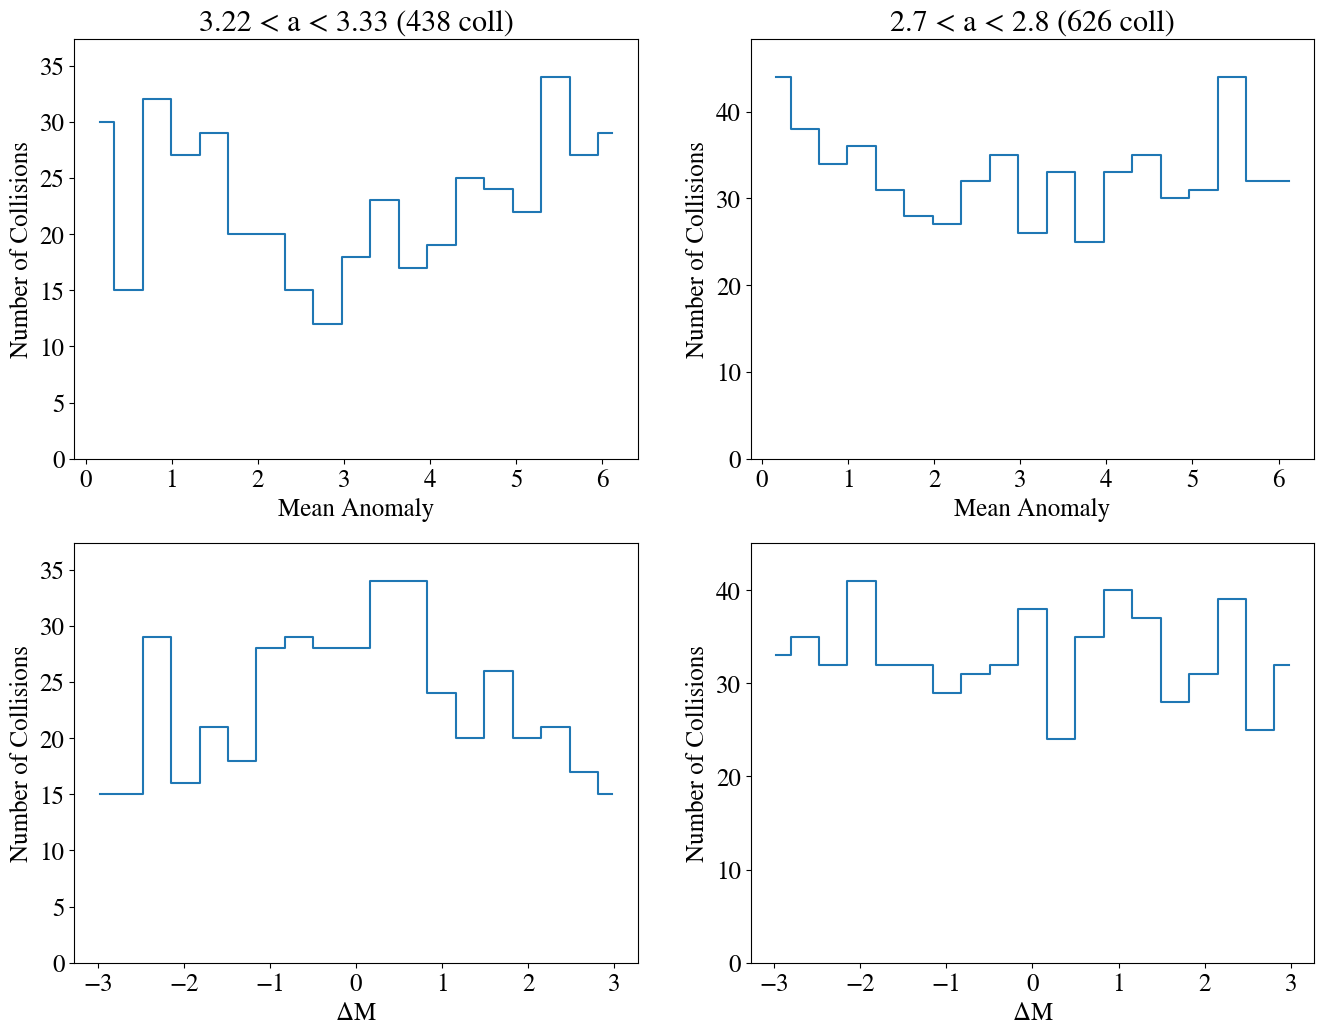
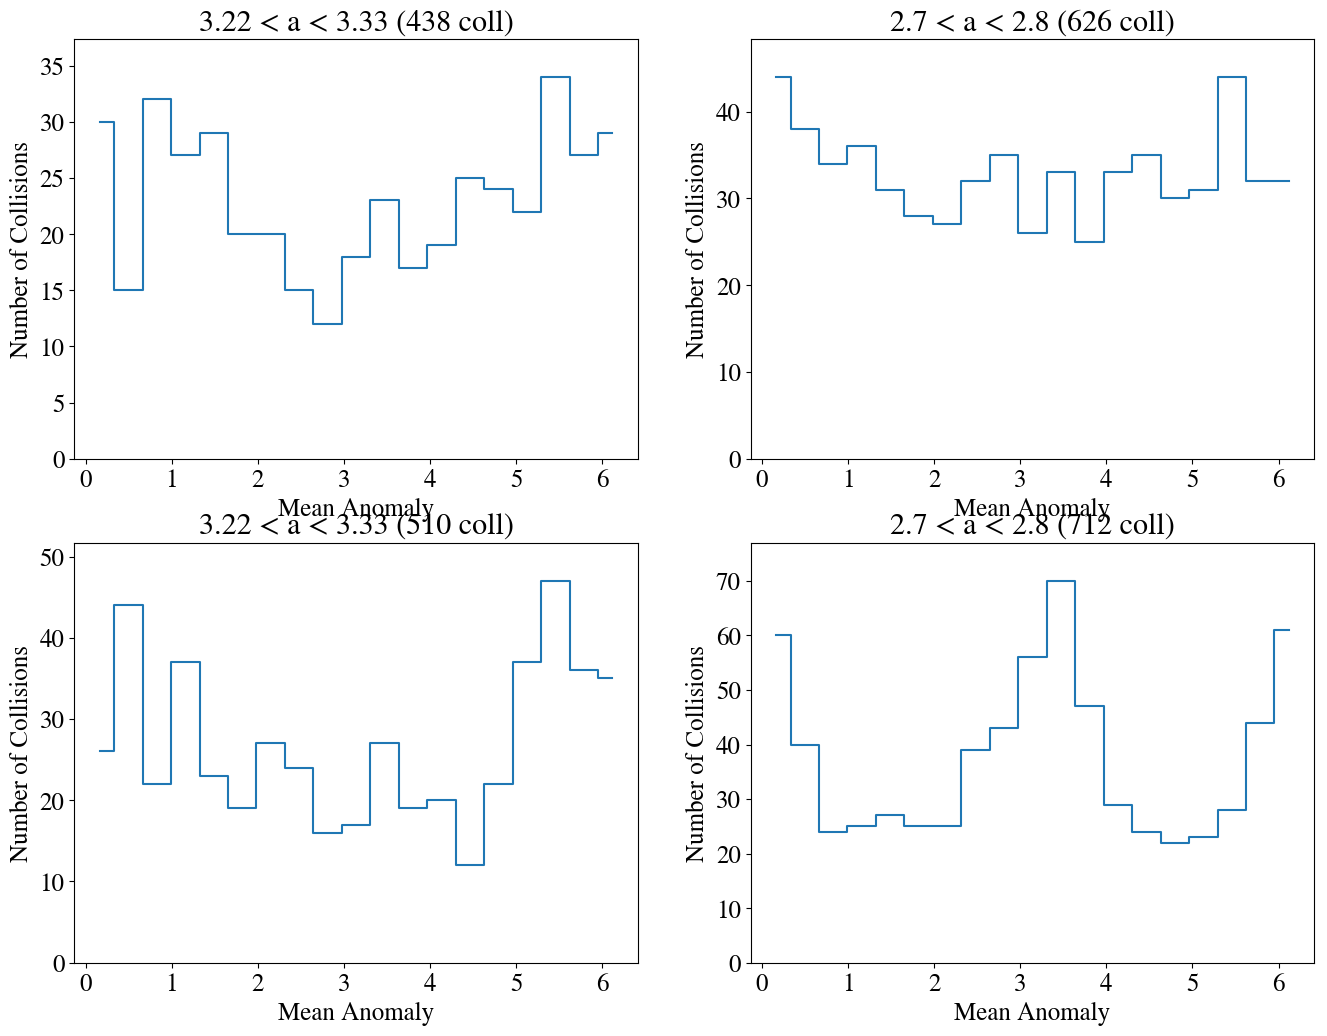
Update figure 6 and explanation

diff --git a/main.tex b/main.tex
@@ -156,9 +156,11 @@ Next, we move on to examine the statistics of the collisions that occur. Figure 
 
 Although the semimajor axis of a particle at the moment of collision provides useful information about how the mean motion resonances affect the collision rate in the disk, this information alone is not enough to predict where the second generation dust that is produced will end up. To do so, we will operate under the assumption that dust grains produced by collision events will quickly couple to the gas and attain a circular orbit. This assumption, which will be further justified in section \ref{sec:dust}, allows to map the radial variation in the dust surface density to the radial position of the collisions. This is shown in figure \ref{fig:coll_hist_r}, where the histograms indicate the x and y coordinates of a body at the moment that it undergoes a collision. Most notably, many of the prominent features visible in figure \ref{fig:coll_hist_a} no longer appear. This is due to the fact that the orbits of colliding bodies have a wide range of eccentricities. In the CJ simulation, there are prominent dips in the collision rate centered around the 2:1 and 3:1 MMR. Although still visible in the EJ simulation, these dips are much wider and shallower. This is due to the fact that particles near the edge of the region of influence of the MMRs have a higher eccentricity in the secularly forced disk. Because a larger eccentricity allows collisions to happen over a broader range of radial distances, the sharp, well-defined edges of the trough centered around the resonances becomes washed out.
 
-As is seen in figure \ref{fig:long_ph}, the relatively fast precession rates induced by the mean motion resonances overpower the secular forcing by Jupiter and randomize the orientation of orbits near the nominal resonance locations. Of course, this difference in longitude of perihelion of bodies inside and outside of resonance is only present in the EJ simulation because the Jupiter imposes zero forced eccentricity on the disk when it has a circular orbit. Figure \ref{fig:m_hist} provides another view of the difference in collision statistics inside and outside and of resonance. The top row shows the mean anomaly of bodies at the moment that they undergo a collision. The left side corresponds to collisions that occur inside of the 2:1 MMR and the right side corresponds to collisions that occur with a semimajor axis between 2.7 and 2.8 AU, which is meant to well away from the influence of any resonances. The semimajor axis window size in the right hand panel is chosen so that both histograms contain the same total number of collisions. The bottom row shows the difference in the mean anomaly between pairs of bodies at the moment that they collide.
+As is seen in figure \ref{fig:long_ph}, the relatively fast precession rates induced by the mean motion resonances overpower the secular forcing by Jupiter and randomize the orientation of orbits near the nominal resonance locations. Of course, this difference in longitude of perihelion of bodies inside and outside of resonance is only present in the EJ simulation because the Jupiter imposes zero forced eccentricity on the disk when it has a circular orbit. Figure \ref{fig:m_hist} provides another view of the difference in collision statistics inside and outside and of resonance. This shows the mean anomalies of bodies at the moment that they undergo a collision. The top row corresponds to the EJ simulation and the bottom rom corresponds to the CJ simulation. The left panels correspond to collisions that occur inside of the 2:1 MMR and the right panels are for collisions that occur with a semimajor axis between 2.7 and 2.8 AU, which is meant to well away from the influence of any resonances. The semimajor axis window size in the right hand panel is chosen so that both histograms contain the same total number of collisions.
 
-In this figure, the most notable difference between the collision statistics inside and outside of resonance is that collisions inside of resonance preferentially happen at perhielion. In addition, the two bodies that collide tend to be at a similar orbital phase. Outside of resonance, however, there are no significant trends in the mean anomaly at collision or in the mean anomaly difference. The difference in collision statistics between these two regions of the disk can be explained in the following way: for $\approx$ 100 km bodies, gravitational focusing plays a significant role in controlling the collision rate. In this regime, the collision rate is given by equation \ref{eq:safronov}, is larger for small relative velocities $v_{p}$ between planetesimals. At perihelion, relative velocities between planetesimals are largest (wait, this is backwards, why do collisions tend to happen at perihelion?). When the longitude of perhelia for adjacent orbits are aligned, which is true away from the resonances, bodies will always tend to have similar relative velocities, regardless of orbital phase. Therefore, the collision rate should no longer vary with mean anomaly, which is exactly what is shown in the top right panel of figure \ref{fig:m_hist}. (But shouldnt you see points clustered around deltaM = 0 in the bottom right panel then?)
+The qualitative differences between these four panels can be explained in the following way: for $\approx$ 100 km bodies, gravitational focusing plays a significant role in setting the collision rate. In regions of the disk where the rms eccentricity is small (which corresponds to a small velocity dispersion), the collision rate should be enhanced (see equation \ref{eq:safronov}). Inside of resonances, planetesimals undergo large amplitude libration which pumps up the eccentricity dispersion. This effect is visible in figure \ref{fig:ae} for both the EJ and CJ simulation. This implies that the collision rate should be geometric, and not depend on the velocity dispersion near resonances. When this is true, collisions should preferentially occur near perihelion. The reason for this is that in the geometric limit, the collision probability scales with the ratio between the geometric cross section of the two planetesimals and the surface area of a sphere with radius $r$, where $r$ is the distance between the bodies and the central star. This ratio, and therefore the collision probability, is largest when $r$ is minimized (see \citet{2003AJ....125.2692L}). The fact both of the left-hand panels in figure \ref{fig:m_hist} show a distinct lack of collisions near aphelion is consistent with this explanation.
+
+Note that this trend is not present in the right-hand panels of figure \ref{fig:m_hist}. In the case with Jupiter on a circular orbit (bottom right panel), there is a spike in the collision rate both at perihelion and aphelion. The perihelion spike is still due to the geometric argument presented in the previous paragraph. The aphelion spike is due to the effect of gravitational focusing. At aphelion, bodies achieve their minimum speed. This lowers the relative velocity between planetesimals, which according to equation \ref{eq:safronov} should enhance the collision rate. Note that the collision rate does not exhibit much dependence on mean anomaly outside of resonance in the case with Jupiter on an eccentric orbit (top right panel). This is due to the secular forcing by Jupiter, which aligns the longitude of perihelia of adjacent planetesimals. The result of this is that bodies maintain similar relative speeds over the course of an orbit, even though the orbit is eccentric. This lack of variation in the relative speeds makes collisions equally likely at any orbital phase.
 
 \subsection{Comparison With Analytic Safronov Collision Rate}\label{sec:saf}
 

diff --git a/makeFig.py b/makeFig.py
@@ -263,23 +263,23 @@ def make_m_hist():
 	ax[0,1].set_ylim(0, np.max(hist)*1.1)
 	ax[0,1].set_title(str(a21) + ' < a < ' + str(a22) + ' (' + str(len(M_c_e1[mask])) + ' coll)')
 
-	mask = np.logical_and(a_c_e1 > a11, a_c_e1 < a12)
-	hist, bins = np.histogram(ang_diff(M_c_e1[mask], M_c_e2[mask]), 
-	                          bins=np.linspace(-np.pi, np.pi, num=20))
+	mask = np.logical_and(a_c_c1 > a11, a_c_c1 < a12)
+	hist, bins = np.histogram(M_c_c1[mask], bins=np.linspace(0, 2*np.pi, num=20))
 	bins = 0.5*(bins[1:] + bins[:-1])
 	ax[1,0].plot(bins, hist, linestyle='steps-mid')
-	ax[1,0].set_xlabel(r'$\Delta$M')
+	ax[1,0].set_xlabel('Mean Anomaly')
 	ax[1,0].set_ylabel('Number of Collisions')
 	ax[1,0].set_ylim(0, np.max(hist)*1.1)
+	ax[1,0].set_title(str(a11) + ' < a < ' + str(a12) + ' (' + str(len(M_c_c1[mask])) + ' coll)')
 
-	mask = np.logical_and(a_c_e1 > a21, a_c_e1 < a22)
-	hist, bins = np.histogram(ang_diff(M_c_e1[mask], M_c_e2[mask]), 
-	                          bins=np.linspace(-np.pi, np.pi, num=20))
+	mask = np.logical_and(a_c_c1 > a21, a_c_c1 < a22)
+	hist, bins = np.histogram(M_c_c1[mask], bins=np.linspace(0, 2*np.pi, num=20))
 	bins = 0.5*(bins[1:] + bins[:-1])
 	ax[1,1].plot(bins, hist, linestyle='steps-mid')
-	ax[1,1].set_xlabel(r'$\Delta$M')
+	ax[1,1].set_xlabel('Mean Anomaly')
 	ax[1,1].set_ylabel('Number of Collisions')
 	ax[1,1].set_ylim(0, np.max(hist)*1.1)
+	ax[1,1].set_title(str(a21) + ' < a < ' + str(a22) + ' (' + str(len(M_c_c1[mask])) + ' coll)')
 	plt.savefig(file_str, format=fmt, bbox_inches='tight')
 
 make_rtheta()
